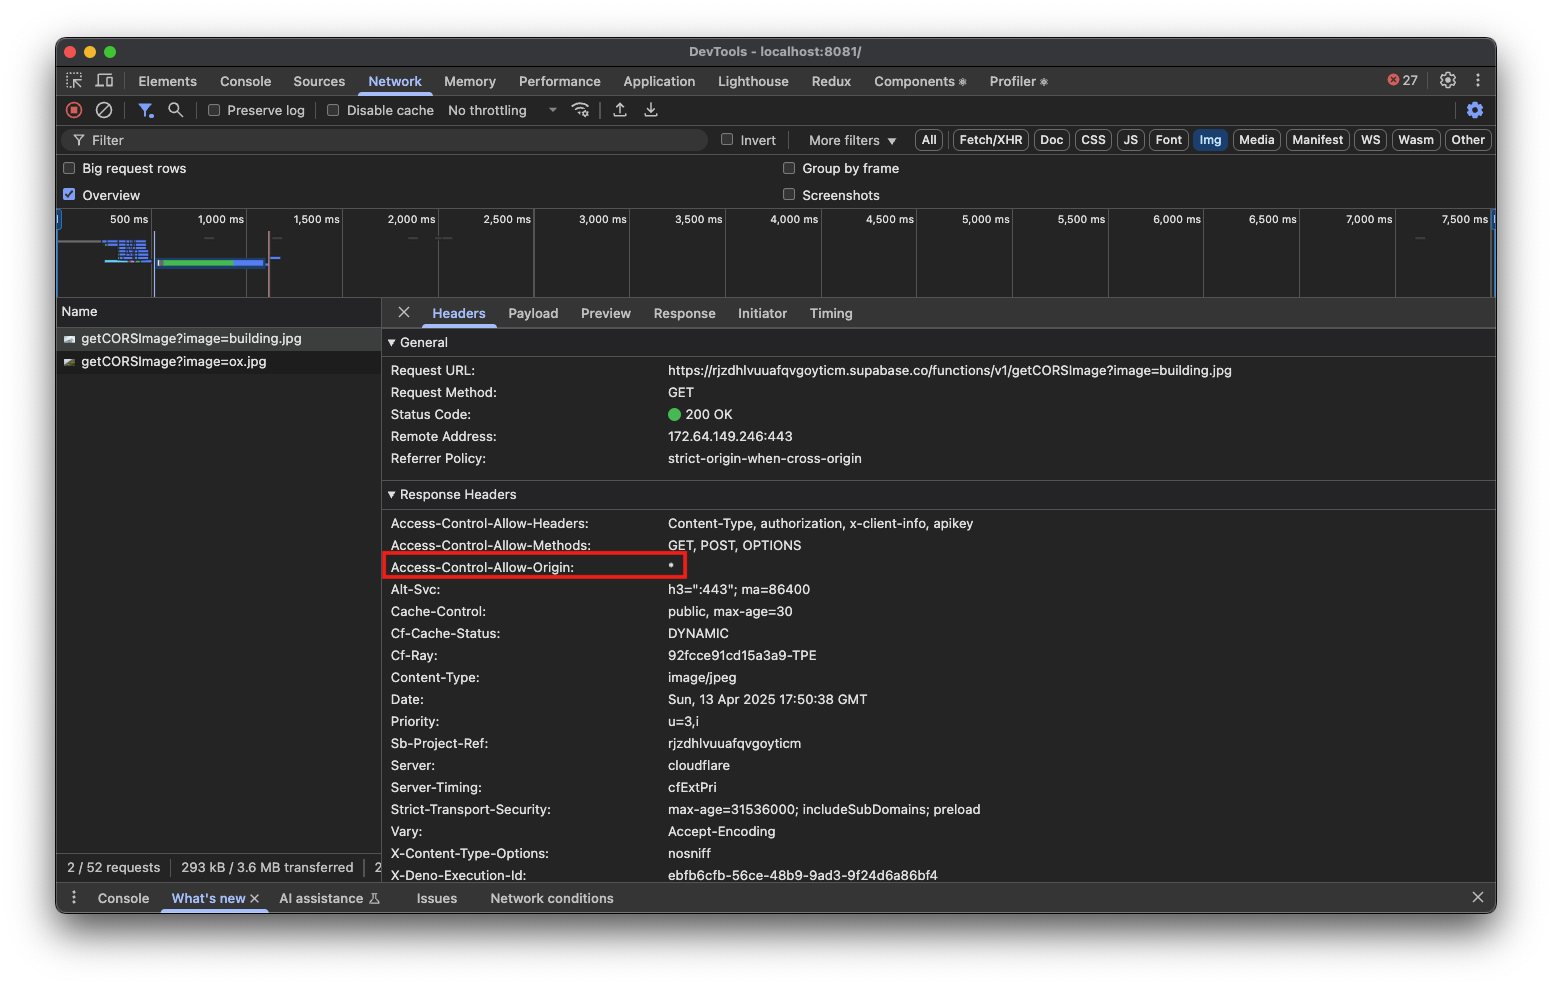
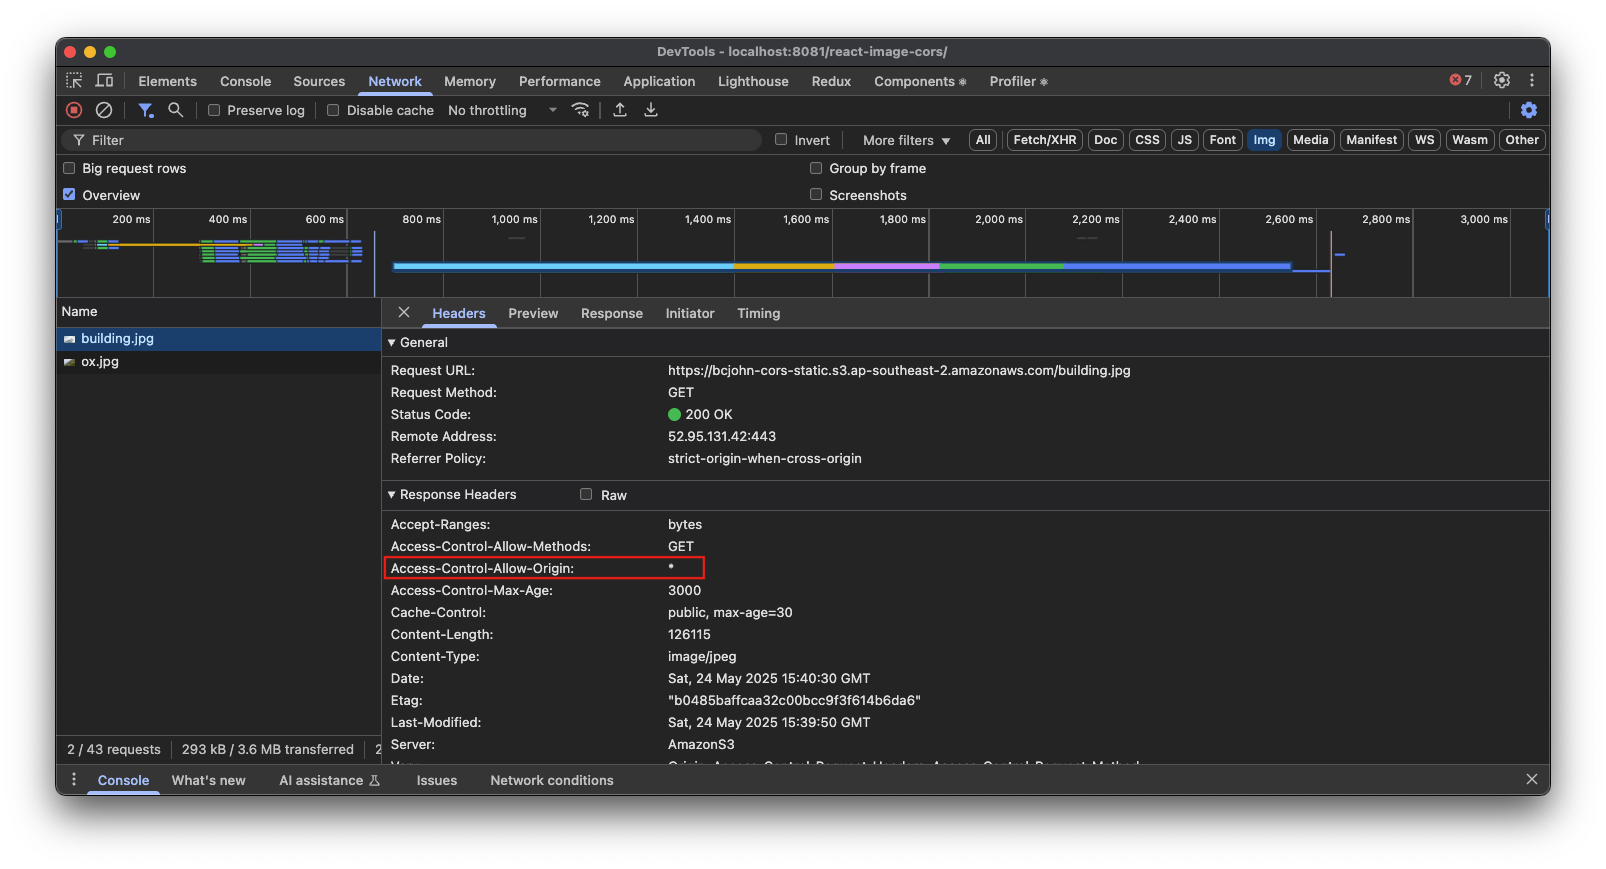
feat: update url to aws s3 in cors-error articles

diff --git a/source/_posts/2025/04/cors-debug-2.md b/source/_posts/2025/04/cors-debug-2.md
@@ -1,7 +1,7 @@
 ---
 title: CORS Debug (2) - src 與 crossOrigin 在 img 元素中的順序導致 CORS error
 date: 2025-04-17 20:26:00
-updated: 2025-05-11 02:06:00
+updated: 2025-05-25 12:31:00
 categories: Javascript
 tags:
 ---
@@ -103,7 +103,7 @@ tags:
 
 ```html
 <img
-  src="https://rjzdhlvuuafqvgoyticm.supabase.co/functions/v1/getCORSImage?image=building.jpg"
+  src="https://bcjohn-cors-static.s3.ap-southeast-2.amazonaws.com/building.jpg"
   crossorigin="anonymous"
   alt="building"
 />
@@ -116,7 +116,7 @@ tags:
 ```html
 <img
   crossorigin="anonymous"
-  src="https://rjzdhlvuuafqvgoyticm.supabase.co/functions/v1/getCORSImage?image=building.jpg"
+  src="https://bcjohn-cors-static.s3.ap-southeast-2.amazonaws.com/building.jpg"
   alt="building"
 />
 ```
@@ -148,7 +148,7 @@ P.S. 在後面 [研究 React 原始碼的過程中](/2025/04/17/cors-debug-2-src
       const img = document.createElement('img');
       img.setAttribute(
         'src',
-        'https://rjzdhlvuuafqvgoyticm.supabase.co/functions/v1/getCORSImage?image=building.jpg'
+        'https://bcjohn-cors-static.s3.ap-southeast-2.amazonaws.com/building.jpg'
       );
       img.setAttribute('crossOrigin', 'anonymous');
       document.body.appendChild(img);
@@ -170,7 +170,7 @@ Safari 瀏覽器就真的是莫名其妙了，以下我們來看看：
 ```html
 <body>
   <img
-    src="https://rjzdhlvuuafqvgoyticm.supabase.co/functions/v1/getCORSImage?image=building.jpg"
+    src="https://bcjohn-cors-static.s3.ap-southeast-2.amazonaws.com/building.jpg"
     crossorigin="anonymous"
   />
 </body>
@@ -191,7 +191,7 @@ Safari 瀏覽器就真的是莫名其妙了，以下我們來看看：
   window.onload = function () {
     const img = document.createElement('img');
     img.src =
-      'https://rjzdhlvuuafqvgoyticm.supabase.co/functions/v1/getCORSImage?image=building.jpg';
+      'https://bcjohn-cors-static.s3.ap-southeast-2.amazonaws.com/building.jpg';
     img.crossOrigin = 'anonymous';
     document.body.appendChild(img);
   };
@@ -206,7 +206,7 @@ Safari 瀏覽器就真的是莫名其妙了，以下我們來看看：
     const img = document.createElement('img');
     img.setAttribute(
       'src',
-      'https://rjzdhlvuuafqvgoyticm.supabase.co/functions/v1/getCORSImage?image=building.jpg'
+      'https://bcjohn-cors-static.s3.ap-southeast-2.amazonaws.com/building.jpg'
     );
     img.setAttribute('crossOrigin', 'anonymous');
     document.body.appendChild(img);
@@ -228,7 +228,7 @@ Safari 瀏覽器就真的是莫名其妙了，以下我們來看看：
     setTimeout(() => {
       const img = document.createElement('img');
       img.src =
-        'https://rjzdhlvuuafqvgoyticm.supabase.co/functions/v1/getCORSImage?image=building.jpg';
+        'https://bcjohn-cors-static.s3.ap-southeast-2.amazonaws.com/building.jpg';
       img.crossOrigin = 'anonymous';
       document.body.appendChild(img);
     }, 0);
@@ -245,7 +245,7 @@ Safari 瀏覽器就真的是莫名其妙了，以下我們來看看：
       const img = document.createElement('img');
       img.setAttribute(
         'src',
-        'https://rjzdhlvuuafqvgoyticm.supabase.co/functions/v1/getCORSImage?image=building.jpg'
+        'https://bcjohn-cors-static.s3.ap-southeast-2.amazonaws.com/building.jpg'
       );
       img.setAttribute('crossOrigin', 'anonymous');
       document.body.appendChild(img);
@@ -267,7 +267,7 @@ Safari 瀏覽器就真的是莫名其妙了，以下我們來看看：
       const img = document.createElement('img');
       img.crossOrigin = 'anonymous';
       img.src =
-        'https://rjzdhlvuuafqvgoyticm.supabase.co/functions/v1/getCORSImage?image=building.jpg';
+        'https://bcjohn-cors-static.s3.ap-southeast-2.amazonaws.com/building.jpg';
       document.body.appendChild(img);
     }, 0);
   };
@@ -284,7 +284,7 @@ Safari 瀏覽器就真的是莫名其妙了，以下我們來看看：
       img.setAttribute('crossOrigin', 'anonymous');
       img.setAttribute(
         'src',
-        'https://rjzdhlvuuafqvgoyticm.supabase.co/functions/v1/getCORSImage?image=building.jpg'
+        'https://bcjohn-cors-static.s3.ap-southeast-2.amazonaws.com/building.jpg'
       );
       document.body.appendChild(img);
     }, 0);
@@ -300,7 +300,7 @@ Safari 瀏覽器就真的是莫名其妙了，以下我們來看看：
 
 ```html
 <img
-  src="https://rjzdhlvuuafqvgoyticm.supabase.co/functions/v1/getCORSImage?image=building.jpg"
+  src="https://bcjohn-cors-static.s3.ap-southeast-2.amazonaws.com/building.jpg"
   crossorigin="anonymous"
   alt="building"
 />
@@ -312,7 +312,7 @@ Safari 瀏覽器就真的是莫名其妙了，以下我們來看看：
 
 ```js
 React.createElement('img', {
-  src: 'https://rjzdhlvuuafqvgoyticm.supabase.co/functions/v1/getCORSImage?image=building.jpg',
+  src: 'https://bcjohn-cors-static.s3.ap-southeast-2.amazonaws.com/building.jpg',
   crossOrigin: 'anonymous',
   alt: 'building'
 });
@@ -390,7 +390,7 @@ Vue 的類 JSX 語法叫做 [模板语法](https://cn.vuejs.org/guide/essentials
 import { h } from 'vue';
 
 const vnode = h('img', {
-  src: 'https://rjzdhlvuuafqvgoyticm.supabase.co/functions/v1/getCORSImage?image=building.jpg',
+  src: 'https://bcjohn-cors-static.s3.ap-southeast-2.amazonaws.com/building.jpg',
   crossorigin: 'anonymous',
   alt: 'building'
 });
@@ -498,7 +498,7 @@ export function patchAttr(
 
 ```html
 <img
-  src="https://rjzdhlvuuafqvgoyticm.supabase.co/functions/v1/getCORSImage?image=building.jpg"
+  src="https://bcjohn-cors-static.s3.ap-southeast-2.amazonaws.com/building.jpg"
   crossorigin="anonymous"
   alt="building"
 />
@@ -510,7 +510,7 @@ export function patchAttr(
 const img = document.createElement('img');
 img.setAttribute(
   'src',
-  'https://rjzdhlvuuafqvgoyticm.supabase.co/functions/v1/getCORSImage?image=building.jpg'
+  'https://bcjohn-cors-static.s3.ap-southeast-2.amazonaws.com/building.jpg'
 );
 img.setAttribute('crossOrigin', 'anonymous');
 ```
@@ -566,7 +566,7 @@ img.setAttribute('crossOrigin', 'anonymous');
       const img = document.createElement('img');
       img.setAttribute(
         'src',
-        'https://rjzdhlvuuafqvgoyticm.supabase.co/functions/v1/getCORSImage?image=building.jpg'
+        'https://bcjohn-cors-static.s3.ap-southeast-2.amazonaws.com/building.jpg'
       );
       img.setAttribute('crossOrigin', 'anonymous');
       document.body.appendChild(img);

diff --git a/source/_posts/2025/04/cors-debug-1.md b/source/_posts/2025/04/cors-debug-1.md
@@ -1,7 +1,7 @@
 ---
 title: CORS Debug (1) - 網頁快取導致的 CORS 問題
 date: 2025-04-13 22:41:49
-updated: 2025-05-11 02:06:00
+updated: 2025-05-25 12:31:00
 categories: Javascript
 tags:
 ---
@@ -70,7 +70,7 @@ const downloadImage = async (image: Image) => {
 
 ```html
 <img
-  src="https://rjzdhlvuuafqvgoyticm.supabase.co/functions/v1/getCORSImage?image=building.jpg"
+  src="https://bcjohn-cors-static.s3.ap-southeast-2.amazonaws.com/building.jpg"
   alt="building"
 />
 ```
@@ -81,7 +81,7 @@ const downloadImage = async (image: Image) => {
 
 ```html
 <img
-  src="https://rjzdhlvuuafqvgoyticm.supabase.co/functions/v1/getCORSImage?image=building.jpg"
+  src="https://bcjohn-cors-static.s3.ap-southeast-2.amazonaws.com/building.jpg"
   crossorigin="anonymous"
   alt="building"
 />
@@ -111,8 +111,6 @@ const downloadImage = async (image: Image) => {
   <img src="./origin-star.png" />
 </div>
 
-P.S. 在這篇文章中，`img.src` 圖片資源的網址都是 `https://rjzdhlvuuafqvgoyticm.supabase.co/` 開頭的，實際上我遇到無法下載圖片問題的時候後端伺服器是 Amazon S3，但這裡改用 [supabase](https://supabase.com/) 模擬 Amazon S3 Response headers 回傳的行為，主要是考慮到這樣可以更靈活的根據前端傳遞的 url，設置不同的 Response headers 來做測試
-
 #### 2. Amazon S3 上的快取機制 (cache)
 
 圖片下載失敗的原因之一除了 Amazon S3 上的 **CORS** 規範外，另外一個重點是 [網頁的快取機制(cache)](https://developer.mozilla.org/zh-TW/docs/Web/HTTP/Guides/Caching)
@@ -141,7 +139,7 @@ P.S. 在這篇文章中，`img.src` 圖片資源的網址都是 `https://rjzdhlv
 
 ```html
 <img
-  src="https://rjzdhlvuuafqvgoyticm.supabase.co/functions/v1/getCORSImage?image=building.jpg"
+  src="https://bcjohn-cors-static.s3.ap-southeast-2.amazonaws.com/building.jpg"
   alt="building"
 />
 ```
@@ -218,7 +216,7 @@ Response headers 中的 [Vary](https://developer.mozilla.org/en-US/docs/Web/HTTP
 
 ```html
 <img
-  src="https://rjzdhlvuuafqvgoyticm.supabase.co/functions/v1/getCORSImage?image=building.jpg"
+  src="https://bcjohn-cors-static.s3.ap-southeast-2.amazonaws.com/building.jpg"
   crossorigin="anonymous"
   alt="building"
 />
